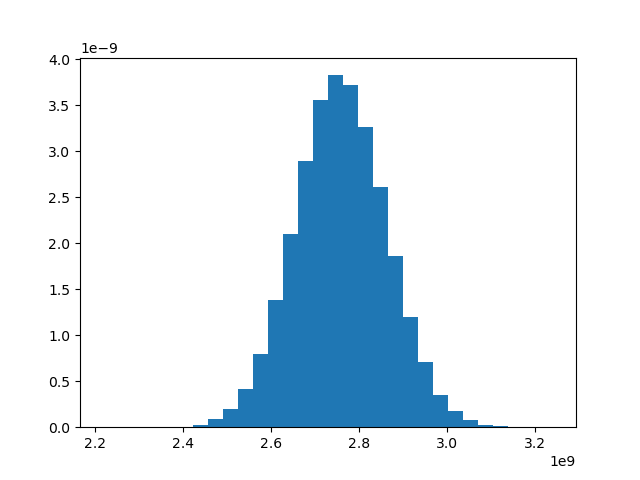
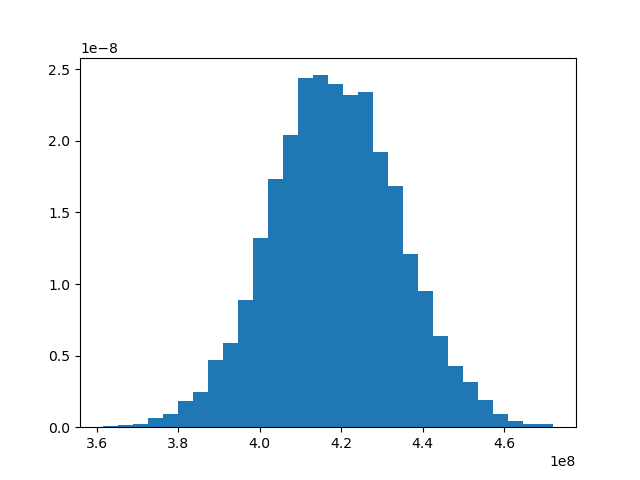
Cloud Storage Ingestion Cost Simulation

diff --git a/gpu/cost_analysis_cudf.md b/gpu/cost_analysis_cudf.md
@@ -145,7 +145,7 @@ def gen_data(mean, std_dev, count):
 
 # Monte Carlo
 years = 100000
-price_per_gb = 0.15214
+price_per_gb = 0.0231
 async def generate_sample_sum():
     rows = np.round(gen_data(mu, 50, days), 0)*1e9
     size_kb = gen_data(1, 0.5, days)
